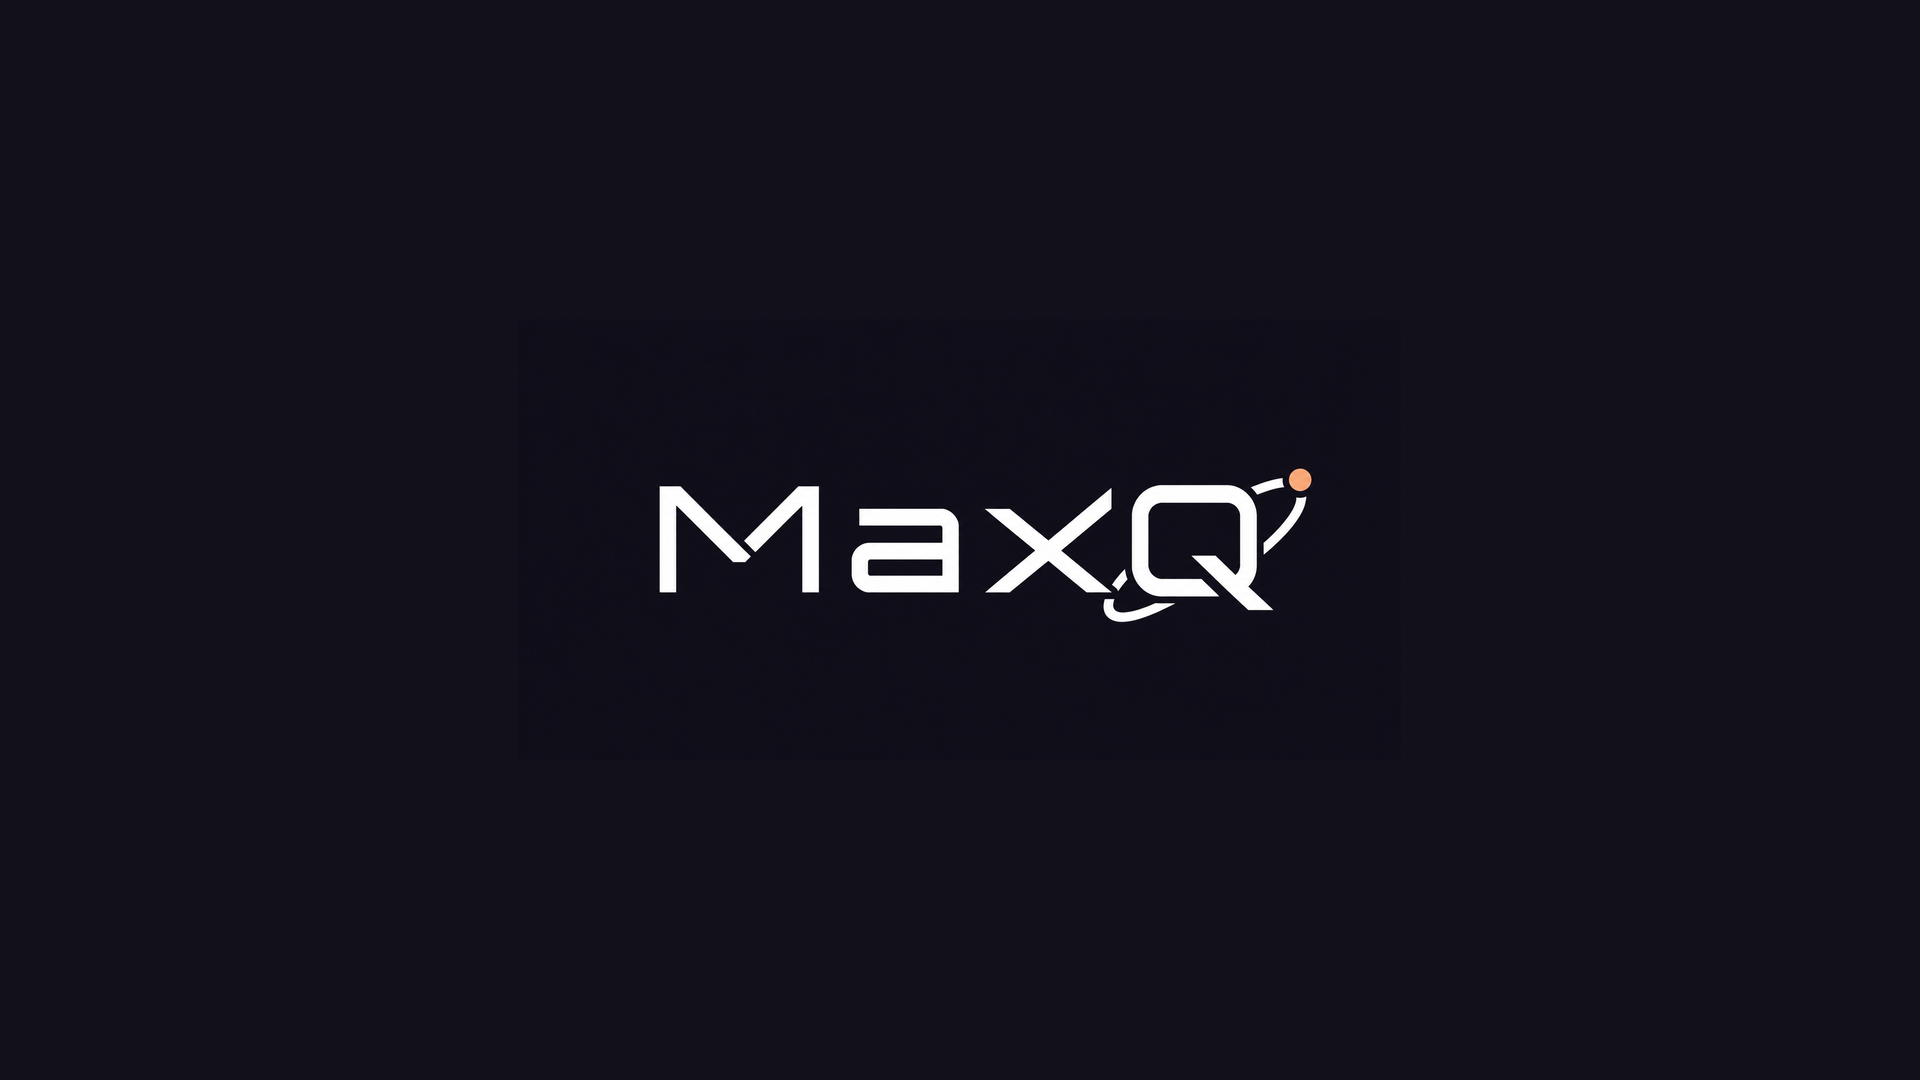
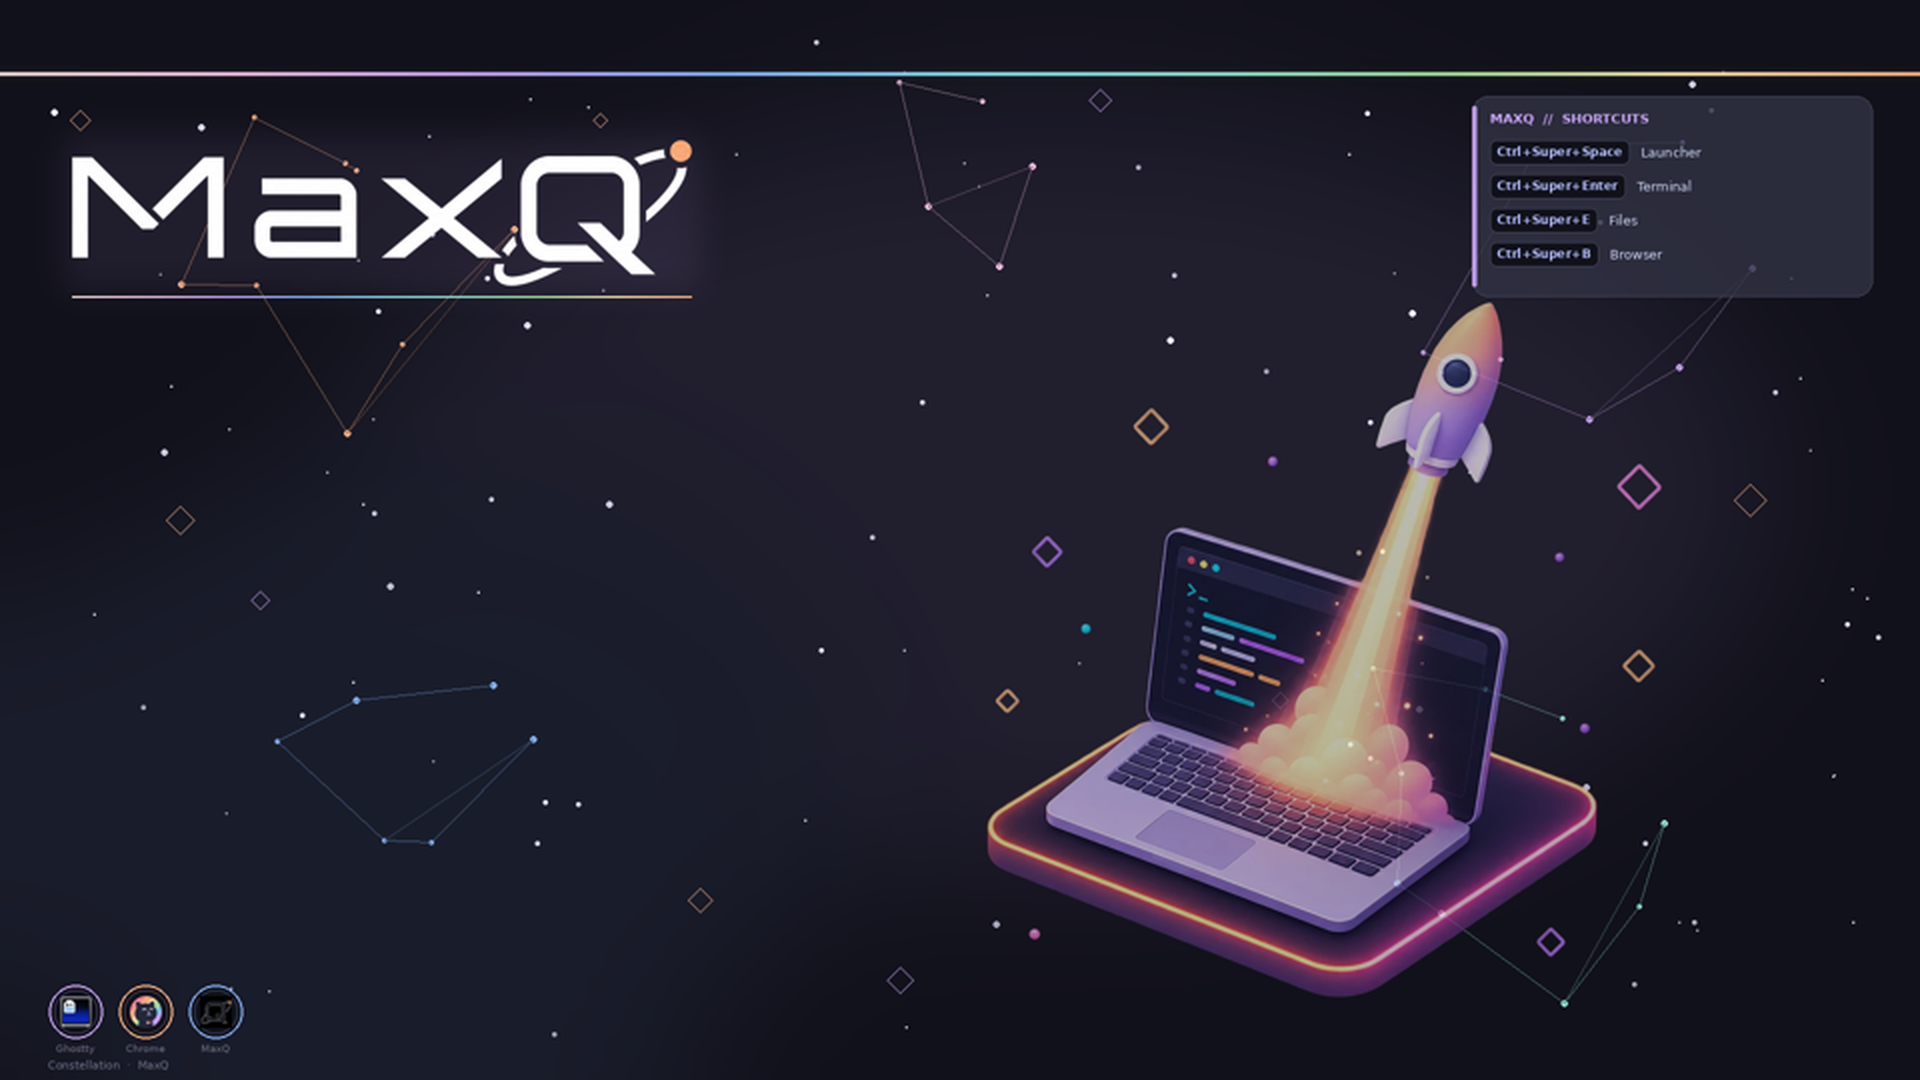
Restore specialized MaxQ Mocha wallpaper art
Replace plain crust wordmark field with rocket-from-laptop branding,
MaxQ mark, shortcuts overlay, and constellation. Keep size variants.

diff --git a/share/theme/README.md b/share/theme/README.md
@@ -4,7 +4,7 @@ Copied to `$HOME/.config/maxq/theme/src` on install/apply.
 
 | Path | What |
 | --- | --- |
-| wallpaper/mocha.png | MaxQ Mocha wallpaper: wordmark centered on crust #12101b (1280x800, 1080p, 1440p) |
+| wallpaper/mocha.png | MaxQ Mocha wallpaper: rocket-from-laptop + MaxQ mark + shortcuts overlay + constellation (1280x800, 1080p, 1440p; SoT from specialized art) |
 | vendor/catppuccin-mocha-mauve-gtk.zip | Official catppuccin/gtk v1.0.3 Mocha Mauve |
 | vendor/catppuccin-mocha-mauve-cursors.zip | Official catppuccin/cursors v2.0.0 Mocha Mauve |
 | chrome-mocha/ | Official catppuccin/chrome v5.0.0 Mocha (google-store) |
